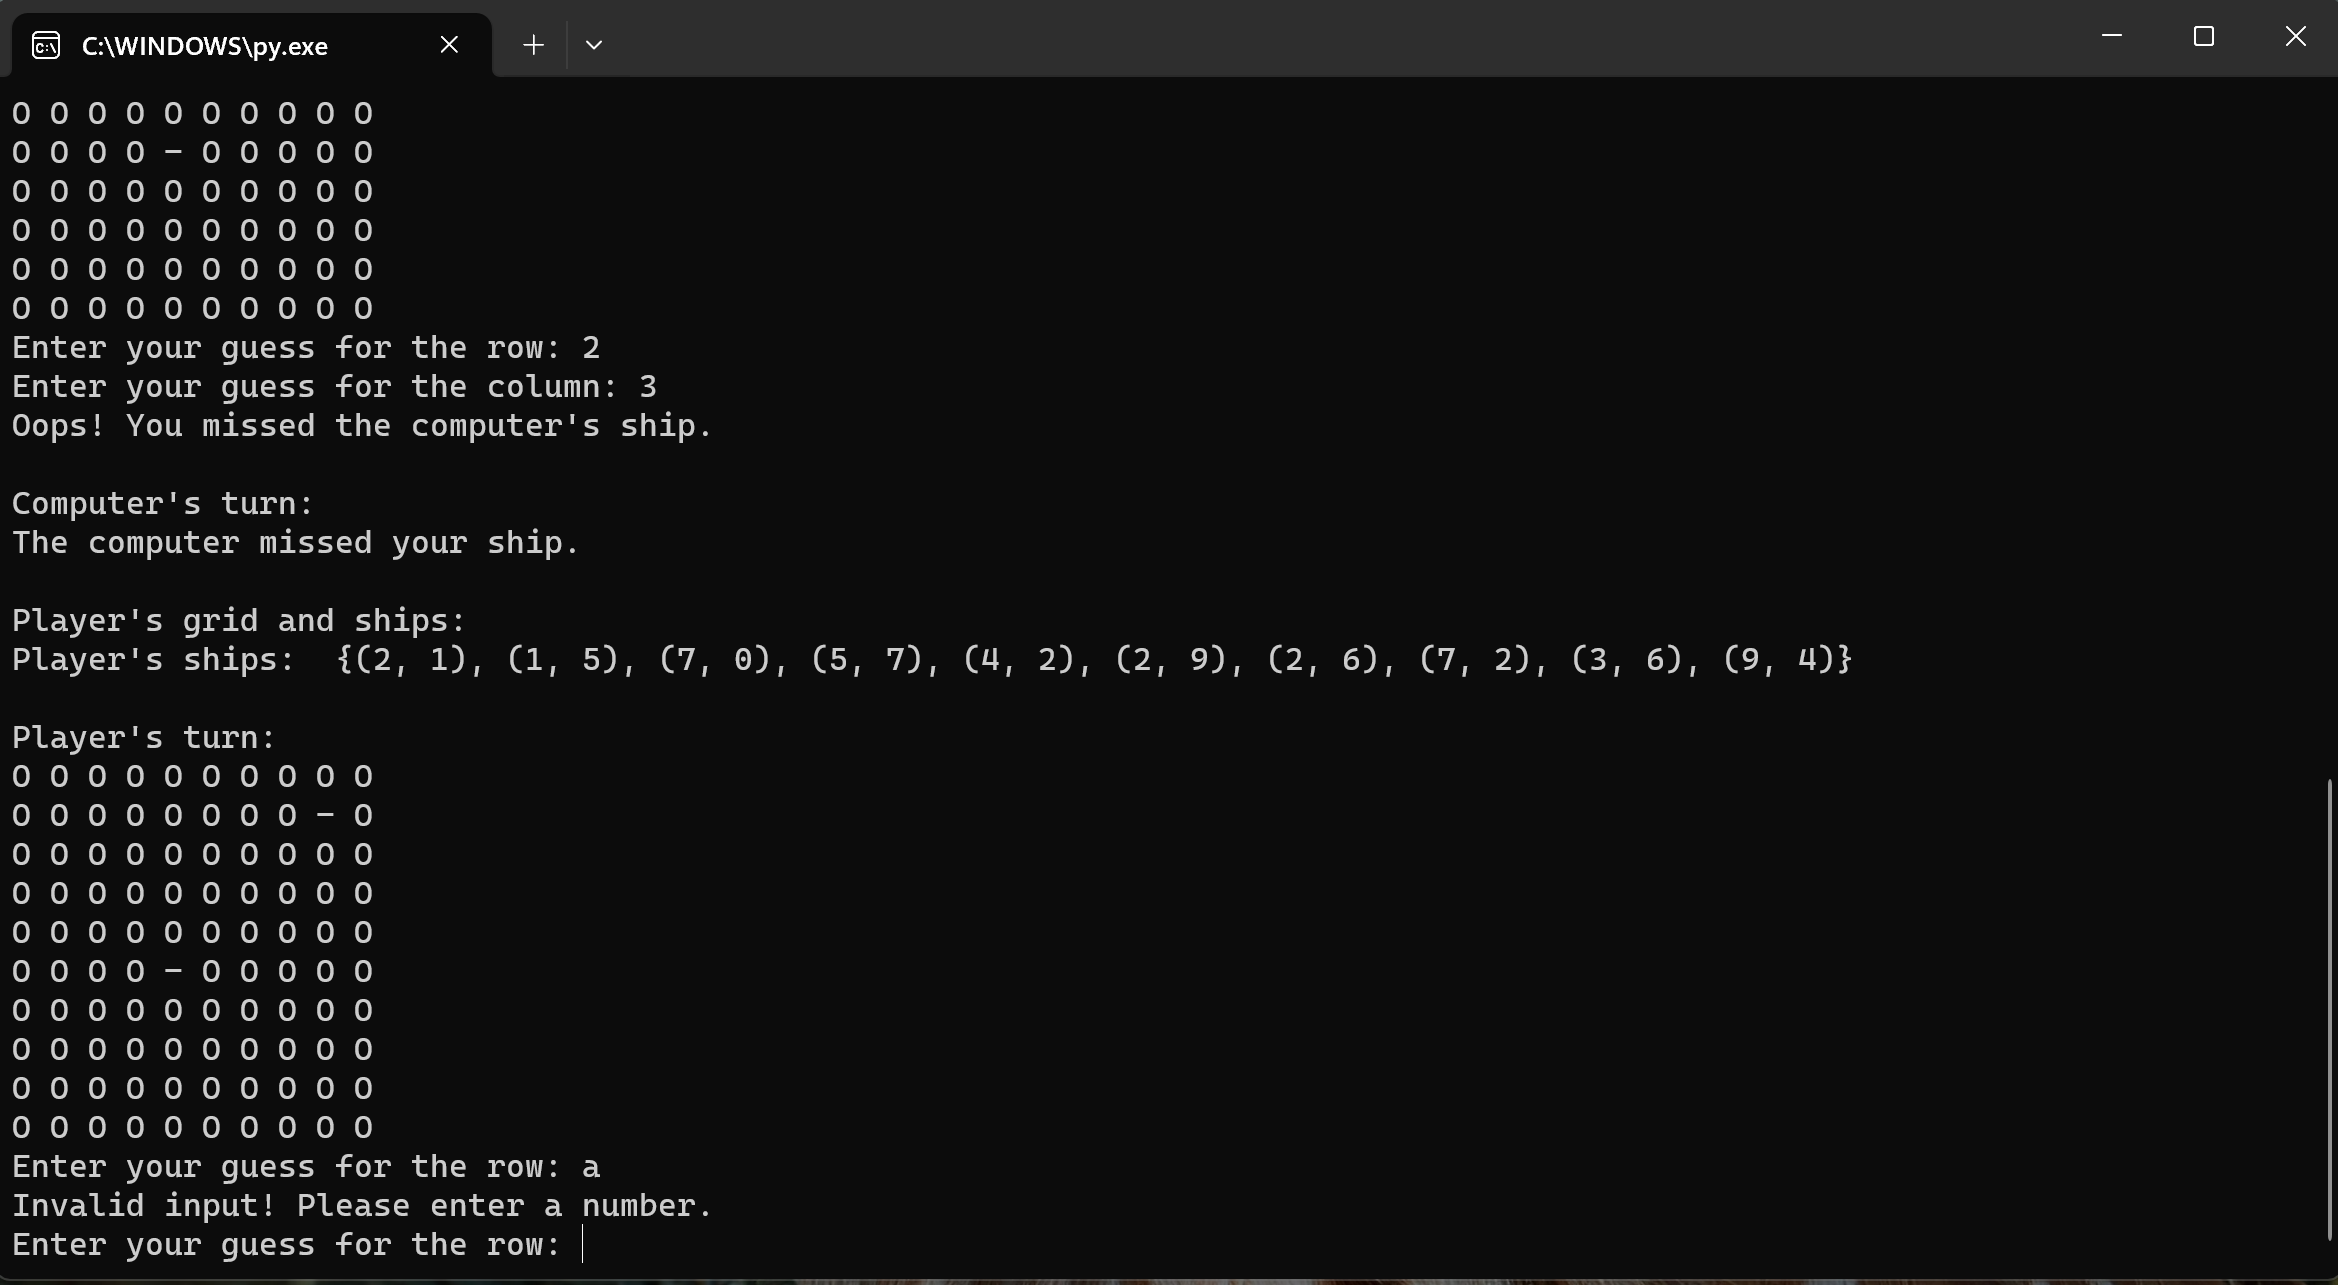
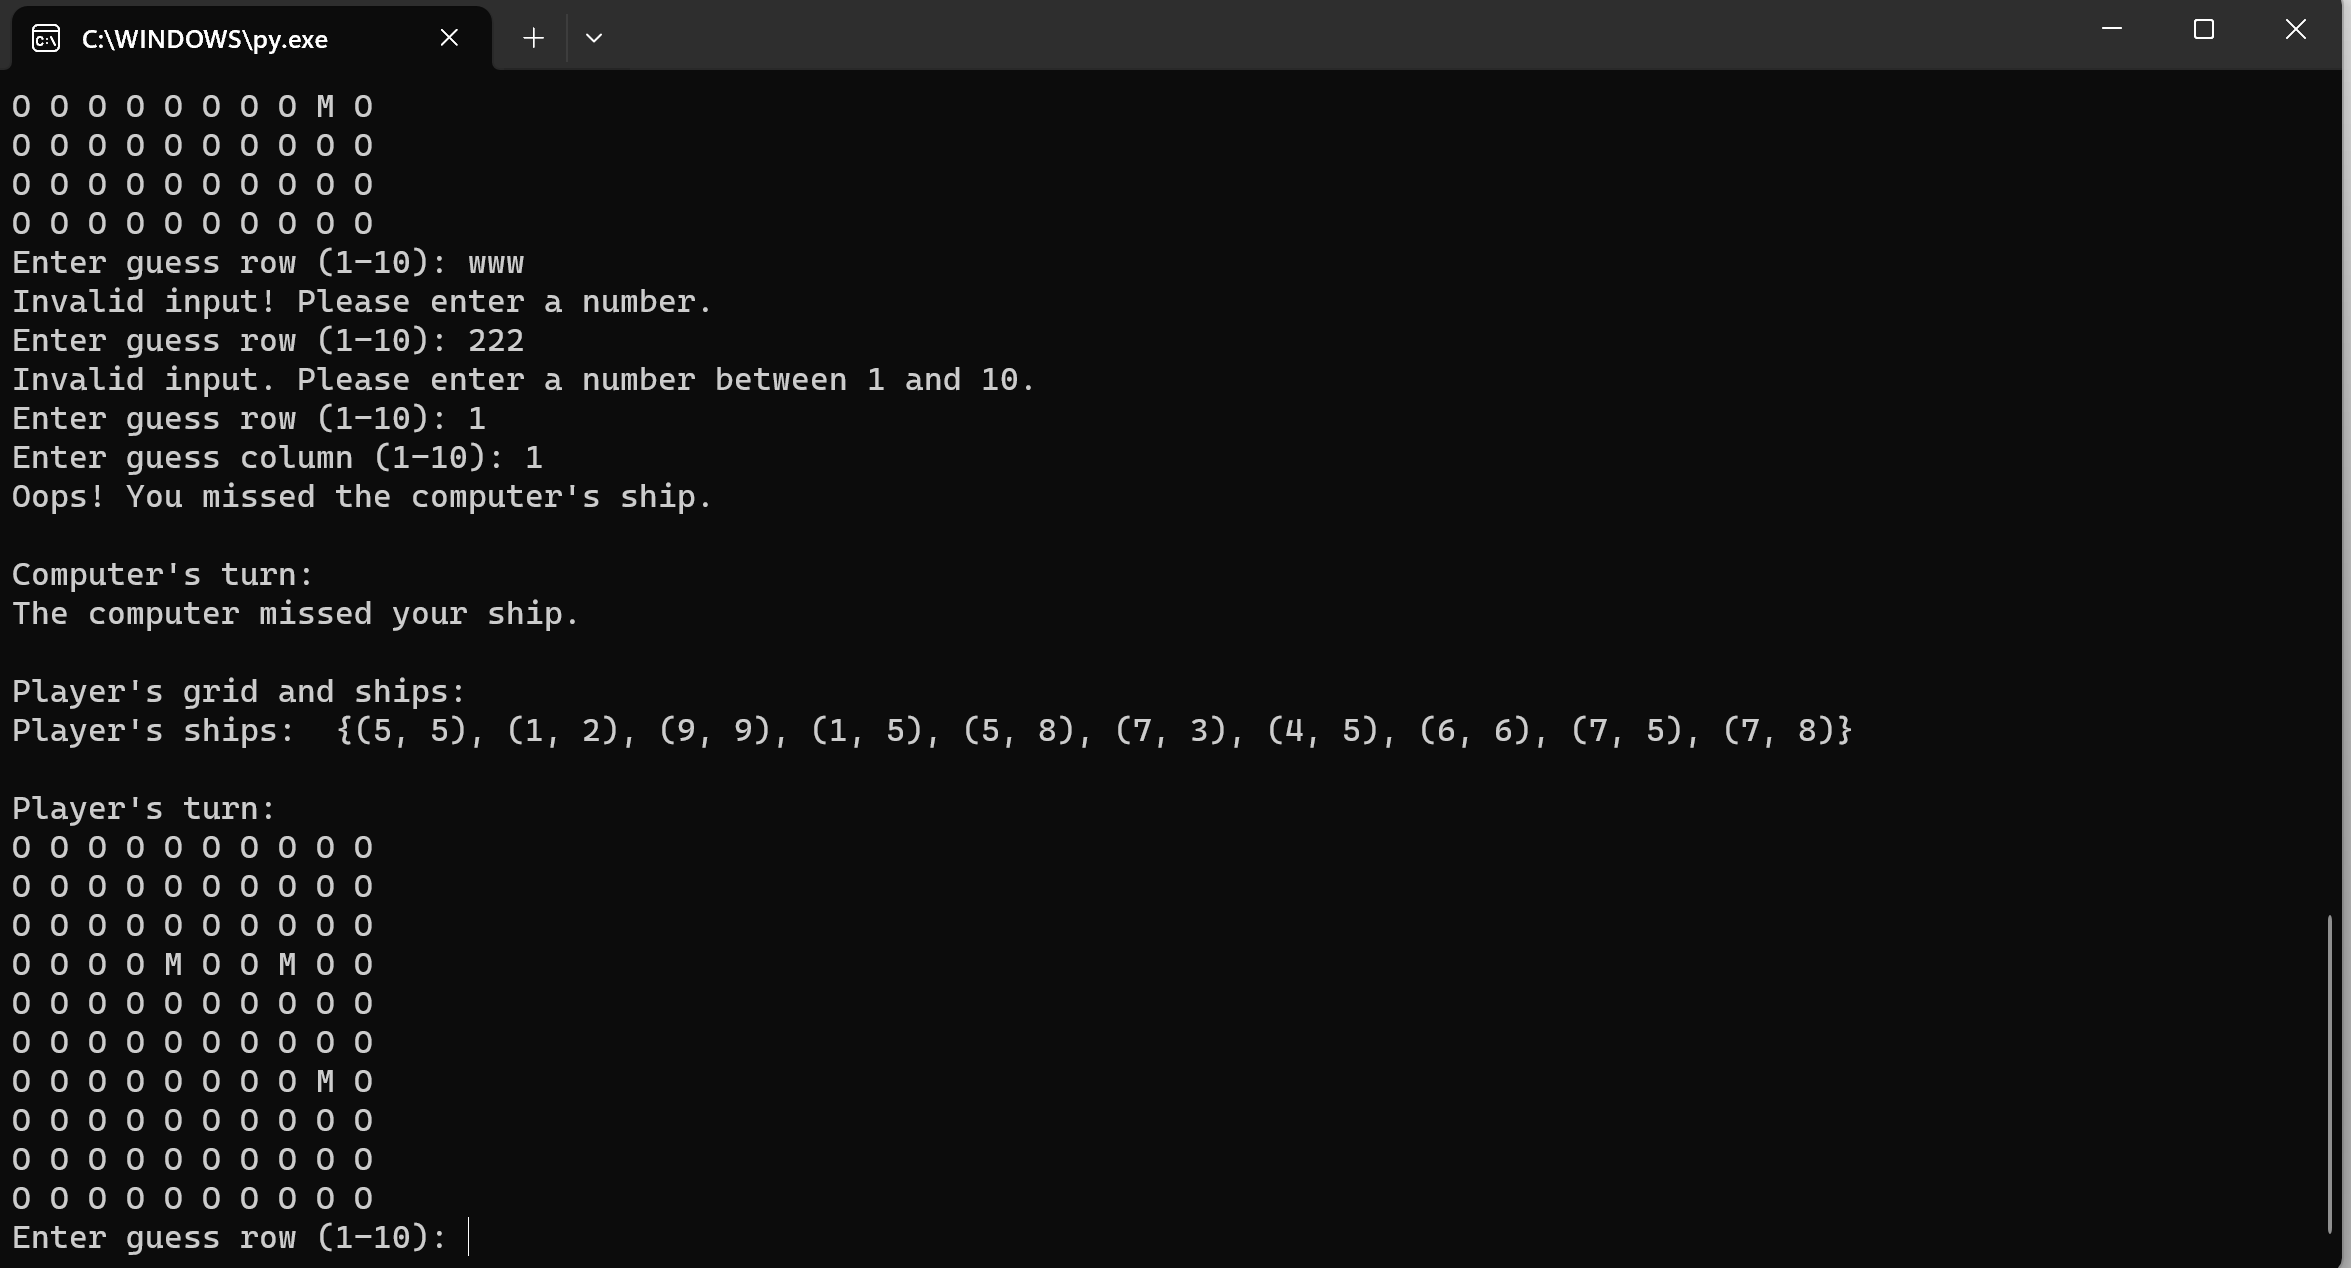
replace screenshots in images for Readme file

Changed region(s): [[0.0, 0.0, 1.0, 1.0], [0.2498, 0.5536, 0.7806, 0.5844]]

diff --git a/run.py b/run.py
@@ -90,7 +90,7 @@ def play_battleship():
             print("You've already guessed this position. Try again.")
         else:
             print("Oops! You missed the computer's ship.")
-            computer_grid[player_guess_row][player_guess_col] = "-"
+            computer_grid[player_guess_row][player_guess_col] = "M"
 
         if not computer_ships:
             print("\nGreat! You destroyed the computers Fleet. You win!")
@@ -105,7 +105,7 @@ def play_battleship():
             player_grid[computer_guess[0]][computer_guess[1]] = "X"
         else:
             print("The computer missed your ship.")
-            player_grid[computer_guess[0]][computer_guess[1]] = "-"
+            player_grid[computer_guess[0]][computer_guess[1]] = "M"
 
         if not player_ships:
             print("\nGame Over! The computer destroyed your Fleet. You lose!")

diff --git a/README.md b/README.md
@@ -21,18 +21,22 @@ The live link can be found here [Battleships PRO]()
 - User ability to set the size of Board and number of ships
   - The Board of Computer is hidden so player cant see where the Computers Ships are located
    
-![game screenshot](Images/Screenshot1.png)
+![game screenshot](Images/Screenshot.png)
 - Play against the Computer
 - Accepts user inputs 
 - Invalid inputs are denied
 - Maintain user and computer scores
 
-![game screenshot](Images/Screenshot.png)
+![game screenshot](Images/Screenshot1.png)
 - Input validation and error-checking
 - User cannot enter coordinates outside the size of the grid
 - User must enter numbers alphabets and all other characters are invalid
 
 ![game screenshot](Images/Screenshot2.png)
+- Game result, determins Game winner 
+- Options to start a new Game or quit game
+
+![game screenshot](Images/Screenshot3.png)
 ### Features in planning
   - player can postion ships themselves
   - player can set the size of ships
